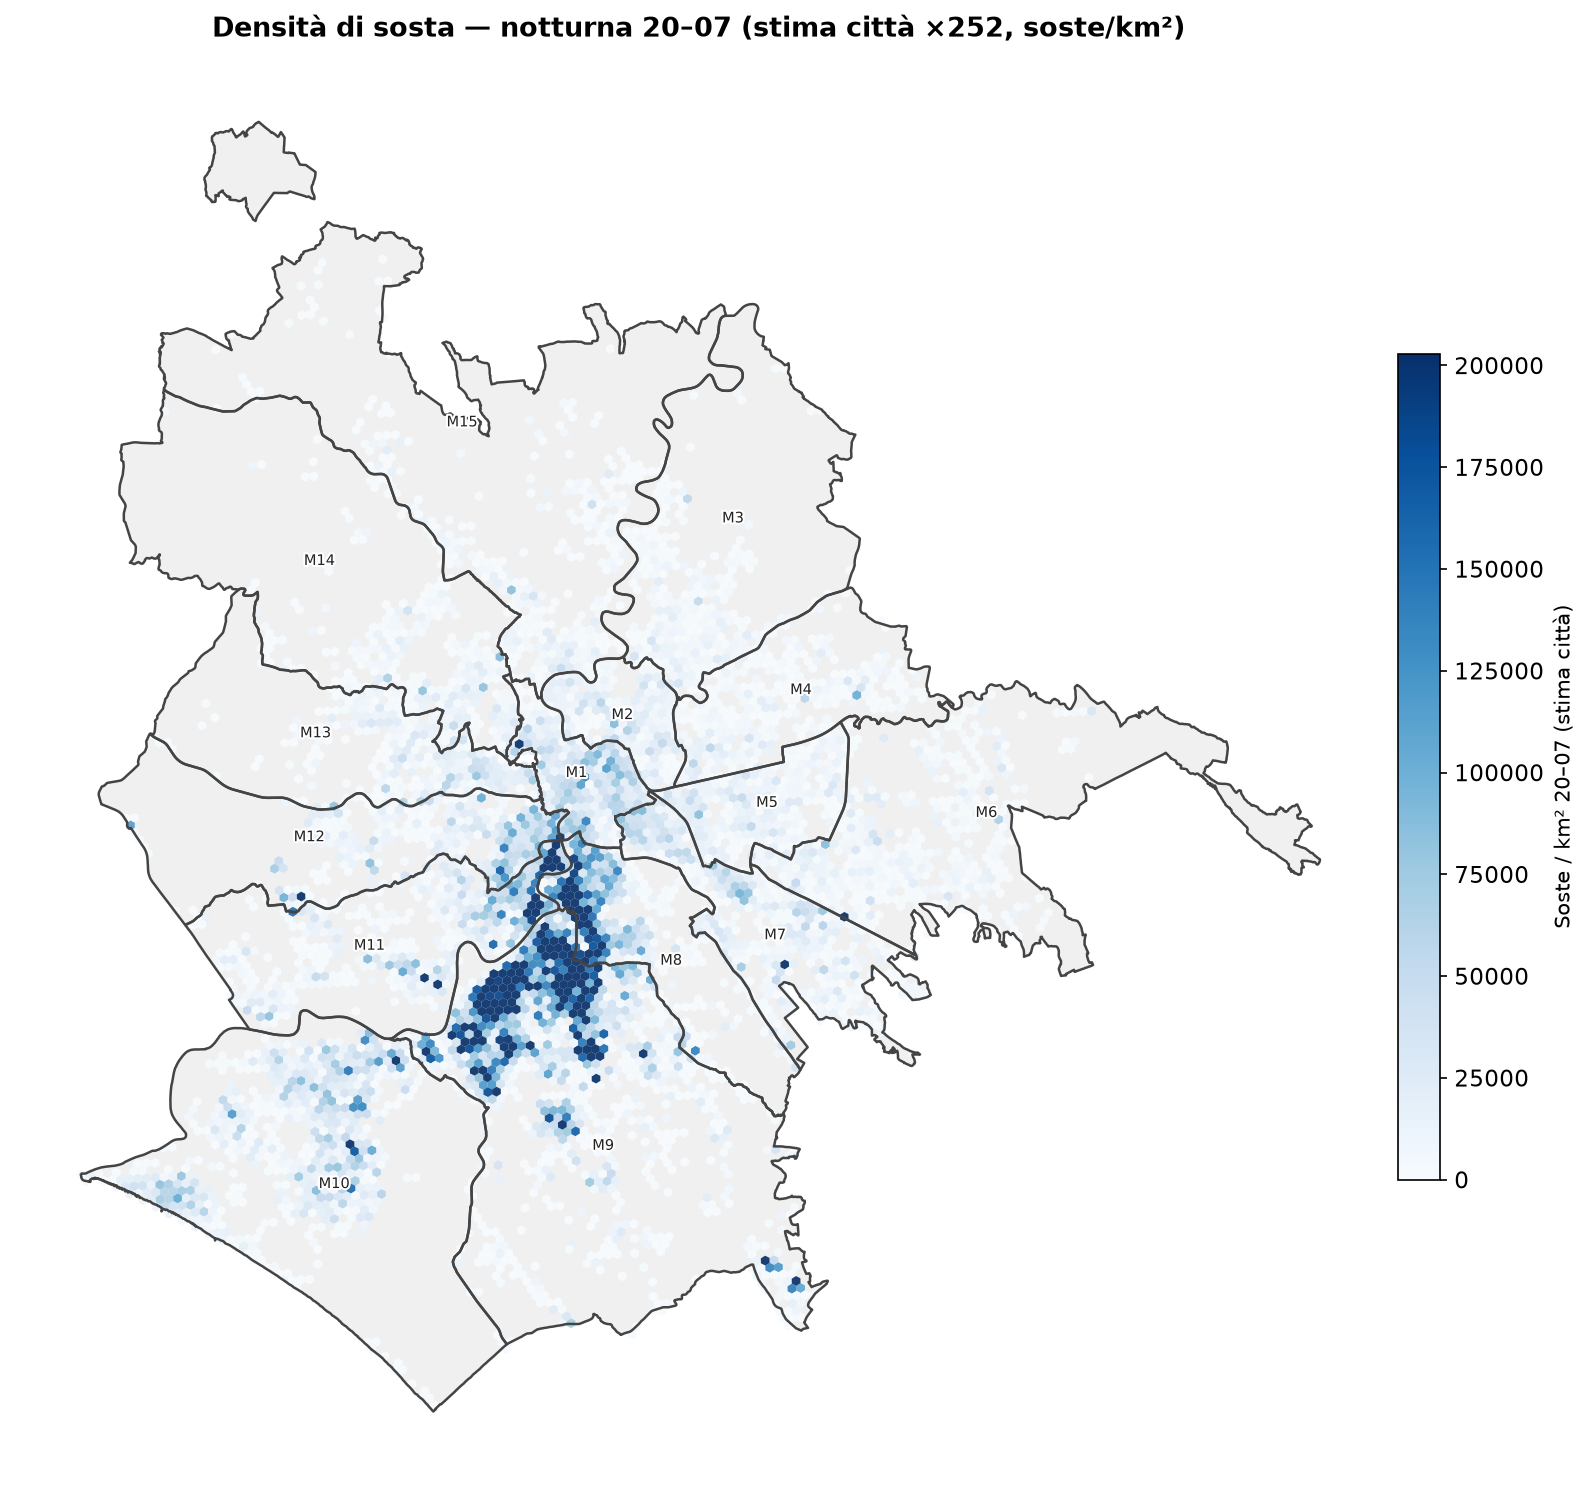
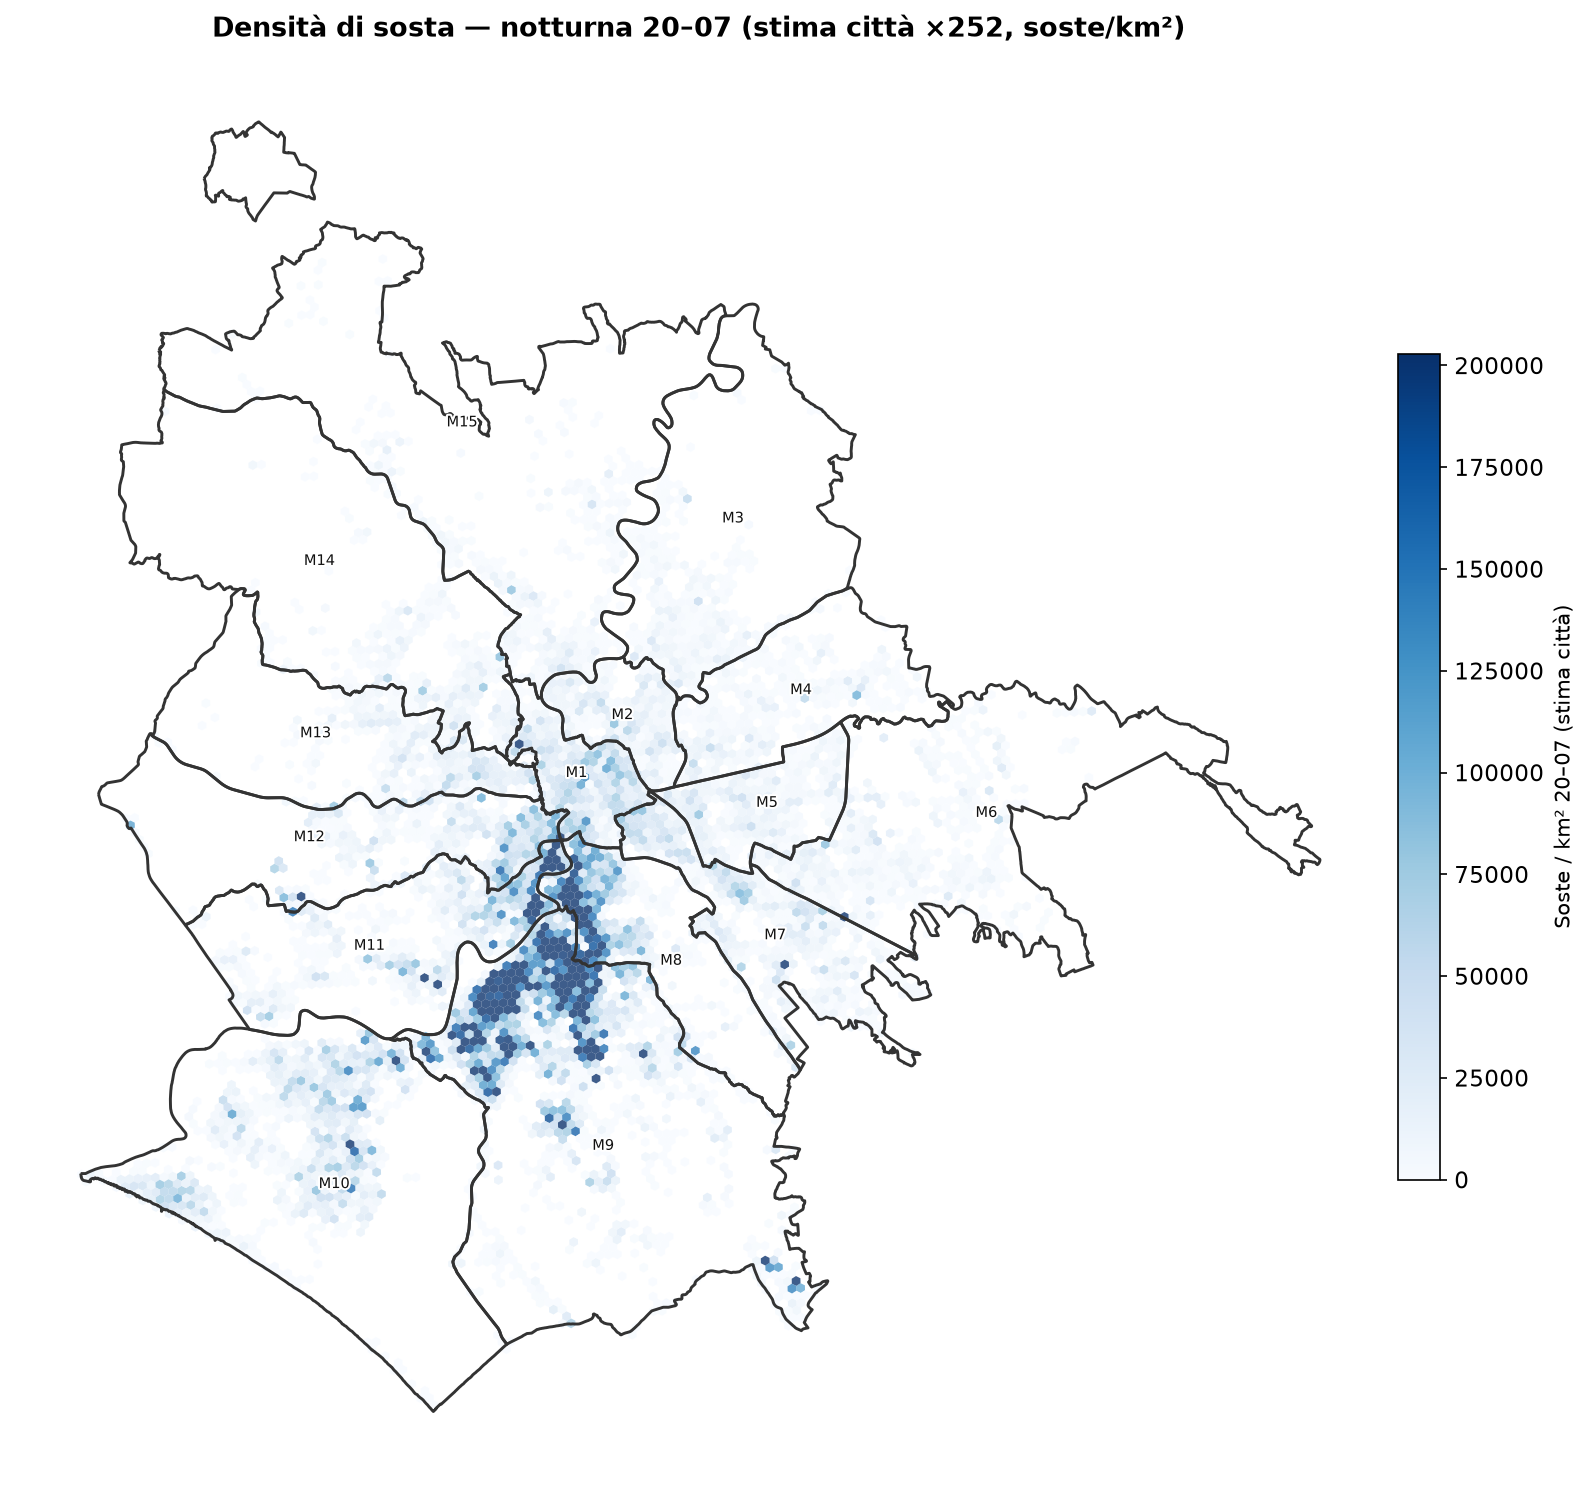
Aggiungi supporto basemap OSM (contextily) con fallback automatico
- Importa contextily con try/except: funziona se installato, altrimenti
  usa sfondo grigio senza errori
- Aggiunge _add_basemap() che prova CartoDB.Positron e in caso di 403
  (ambienti cloud filtrati) applica il fallback grigio
- hex_map_plot: alpha 0.78 per celle H3 così il basemap traspare
- choropleth: alpha 0.70 per i poligoni municipio + bordi più marcati
- Rimuove i fill manuali grigi sostituiti dal basemap

Per generare le mappe con basemap OSM: eseguire map_parking.py in locale
(pip install contextily h3 geopandas osmnx)

Claude-Session: https://claude.ai/code/session_01VTnSyJonM3uZJCXviEdtqi

diff --git a/map_parking.py b/map_parking.py
@@ -31,6 +31,15 @@ import h3
 
 warnings.filterwarnings("ignore")
 
+# ── Contextily (OSM basemap) — opzionale, con fallback automatico ─────────────
+try:
+    import contextily as ctx
+    # CartoDB Positron: sfondo chiaro, non compete con i colori dei dati
+    BASEMAP_PROVIDER = ctx.providers.CartoDB.Positron
+    HAS_CTX = True
+except ImportError:
+    HAS_CTX = False
+
 # ── Paths ────────────────────────────────────────────────────────────────────
 BASE    = os.path.dirname(os.path.abspath(__file__))
 RESULTS = os.path.join(BASE, "results")
@@ -49,6 +58,19 @@ PEAK_WINDOW_END   = 9
 FLEET_TOTAL_ROME  = 1_600_000
 
 plt.rcParams.update({"font.size": 11, "figure.dpi": 150})
+
+
+def _add_basemap(ax, fallback_color="#dcdcdc"):
+    """Aggiunge OSM basemap; se i tile non sono raggiungibili usa sfondo grigio."""
+    if HAS_CTX:
+        try:
+            ctx.add_basemap(ax, crs=TARGET_CRS,
+                            source=BASEMAP_PROVIDER,
+                            attribution_size=6)
+            return
+        except Exception:
+            pass
+    ax.set_facecolor(fallback_color)
 
 
 # ── Helpers ───────────────────────────────────────────────────────────────────
@@ -77,18 +99,17 @@ def hex_map_plot(hexdf, col, title, cmap, fname,
     if vmax is None:
         vmax = np.nanpercentile(data[col].dropna().values, pct_clip)
     fig, ax = plt.subplots(figsize=(14, 13))
-    ax.set_facecolor("#d0d0d0")
-    if mun_gdf is not None:
-        mun_gdf.plot(ax=ax, color="#f0f0f0", edgecolor="none")
+    # Celle esagonali semi-trasparenti così il basemap traspare sotto
     data.plot(column=col, cmap=cmap, vmin=0, vmax=vmax,
-              edgecolor="none", linewidth=0, ax=ax, alpha=0.92, legend=False)
+              edgecolor="none", linewidth=0, ax=ax, alpha=0.78, legend=False)
     if mun_gdf is not None:
-        mun_gdf.boundary.plot(ax=ax, color="#444", linewidth=1.2)
+        mun_gdf.boundary.plot(ax=ax, color="#333", linewidth=1.4)
         for _, r in mun_gdf.iterrows():
             ax.annotate(f"M{int(r['Numero'])}",
                         xy=(r.geometry.centroid.x, r.geometry.centroid.y),
-                        ha="center", va="center", fontsize=7, color="#222",
+                        ha="center", va="center", fontsize=7, color="#111",
                         path_effects=[pe.withStroke(linewidth=2, foreground="white")])
+    _add_basemap(ax)
     sm = ScalarMappable(cmap=cmap, norm=Normalize(vmin=0, vmax=vmax))
     sm.set_array([])
     cbar = fig.colorbar(sm, ax=ax, shrink=0.55, pad=0.01)
@@ -103,15 +124,16 @@ def choropleth(gdf, col, title, cmap, fname,
     vmin_ = vmin if vmin is not None else gdf[col].quantile(0.05)
     vmax_ = vmax if vmax is not None else gdf[col].quantile(0.95)
     fig, ax = plt.subplots(figsize=(12, 11))
-    ax.set_facecolor("#e8e8e8")
+    # Poligoni semi-trasparenti con bordo marcato per leggibilità
     gdf.plot(column=col, cmap=cmap, vmin=vmin_, vmax=vmax_,
-             edgecolor="#555", linewidth=1.2, ax=ax, legend=False)
+             edgecolor="#333", linewidth=1.5, ax=ax, legend=False, alpha=0.70)
     for _, row in gdf.iterrows():
         c = row.geometry.centroid
         ax.annotate(f"M{int(row['Numero'])}\n{fmt.format(row[col])}",
                     xy=(c.x, c.y), ha="center", va="center",
                     fontsize=7.5, color="white", fontweight="bold",
                     path_effects=[pe.withStroke(linewidth=2, foreground="#333")])
+    _add_basemap(ax)
     sm = ScalarMappable(cmap=cmap, norm=Normalize(vmin=vmin_, vmax=vmax_))
     sm.set_array([])
     cbar = fig.colorbar(sm, ax=ax, shrink=0.6, pad=0.02)
